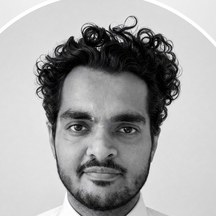
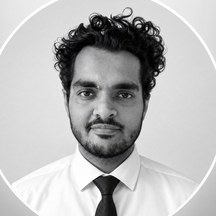
Widen the author photo crop and make it expandable
Crop widened from 1700px to 2200px so the neck, collar and shoulders
are visible rather than the face filling the whole circle. Still sits
inside the source's drawn ring (reach 1149 against a 1235 radius), so
the CSS circular mask stays clean with no bright crescent at the edge.

The photo now expands on click to the full portrait:
- Lightbox CSS promoted from two posts' inline styles into styles.css,
  so every page has it rather than just the two with screenshots
- Lightbox markup added to the 5 posts that lacked it
- Author photo wired up with role=button, tabindex and an aria-label,
  operable by mouse and keyboard, scroll locked while open, focus moved
  to the close button and returned to the photo on Escape
- pratik-full.jpg at 1100x1100, 102 KB

Verified: 0 contrast failures and 0 horizontal overflow across 20 views,
existing screenshot lightboxes still wired.

diff --git a/blog-variance-1.html b/blog-variance-1.html
@@ -922,7 +922,7 @@
 
       <!-- Author card -->
       <div class="author-card reveal">
-        <img src="pratik.jpg" alt="Pratik Parashar" width="216" height="216" loading="eager" decoding="async" />
+        <img src="pratik.jpg" data-full="pratik-full.jpg" alt="Pratik Parashar" width="216" height="216" loading="eager" decoding="async" />
         <div class="author-info">
           <div class="name">Pratik Parashar</div>
           <p class="bio">Senior Auditor, Financial Services at KPMG Netherlands. Seven years in audit across India and the Netherlands, four of them on private equity and infrastructure funds. Writing a variance commentary tool in public. Open to audit, controls, reporting and controlling roles in the Netherlands. <a href="https://linkedin.com/in/pratikparashar93" target="_blank" rel="noopener noreferrer">LinkedIn &rarr;</a></p>
@@ -946,6 +946,12 @@
 
   <button class="to-top" id="toTop" aria-label="Back to top" title="Back to top">&uarr;</button>
   <p class="sr-status" role="status" aria-live="polite" id="srStatus"></p>
+
+  <div class="lightbox" id="lightbox" role="dialog" aria-modal="true" aria-label="Expanded image">
+    <button class="lightbox-close" id="lightbox-close" aria-label="Close expanded view">Close &middot; Esc</button>
+    <img id="lightbox-img" src="" alt="" />
+    <div class="lightbox-caption" id="lightbox-caption"></div>
+  </div>
 
   <footer class="site-footer">
     <div class="site-footer__inner">
@@ -1152,6 +1158,20 @@
           });
         }
       );
+      // Author photo expands to the full portrait
+      var av = document.querySelector('.author-card img');
+      if (av) {
+        av.setAttribute('tabindex', '0');
+        av.setAttribute('role', 'button');
+        av.setAttribute('aria-label', 'Expand photo of Pratik Parashar');
+        var full = av.getAttribute('data-full') || av.src;
+        function fireAv() { open(full, 'Pratik Parashar', '', av); }
+        av.addEventListener('click', fireAv);
+        av.addEventListener('keydown', function (e) {
+          if (e.key === 'Enter' || e.key === ' ') { e.preventDefault(); fireAv(); }
+        });
+      }
+
 
       x.addEventListener('click', close);
       lightbox.addEventListener('click', function (e) {

diff --git a/blog-variance-2.html b/blog-variance-2.html
@@ -821,7 +821,7 @@
       </div>
 
       <div class="author-card reveal">
-        <img src="pratik.jpg" alt="Pratik Parashar" width="216" height="216" loading="eager" decoding="async" />
+        <img src="pratik.jpg" data-full="pratik-full.jpg" alt="Pratik Parashar" width="216" height="216" loading="eager" decoding="async" />
         <div class="author-info">
           <div class="name">Pratik Parashar</div>
           <p class="bio">Senior Auditor, Financial Services at KPMG Netherlands. Seven years in audit across India and the Netherlands, four of them on private equity and infrastructure funds. Writing a variance commentary tool in public. Open to audit, controls, reporting and controlling roles in the Netherlands. <a href="https://linkedin.com/in/pratikparashar93" target="_blank" rel="noopener noreferrer">LinkedIn &rarr;</a></p>
@@ -844,6 +844,12 @@
 
   <button class="to-top" id="toTop" aria-label="Back to top" title="Back to top">&uarr;</button>
   <p class="sr-status" role="status" aria-live="polite" id="srStatus"></p>
+
+  <div class="lightbox" id="lightbox" role="dialog" aria-modal="true" aria-label="Expanded image">
+    <button class="lightbox-close" id="lightbox-close" aria-label="Close expanded view">Close &middot; Esc</button>
+    <img id="lightbox-img" src="" alt="" />
+    <div class="lightbox-caption" id="lightbox-caption"></div>
+  </div>
 
   <footer class="site-footer">
     <div class="site-footer__inner">
@@ -1050,6 +1056,20 @@
           });
         }
       );
+      // Author photo expands to the full portrait
+      var av = document.querySelector('.author-card img');
+      if (av) {
+        av.setAttribute('tabindex', '0');
+        av.setAttribute('role', 'button');
+        av.setAttribute('aria-label', 'Expand photo of Pratik Parashar');
+        var full = av.getAttribute('data-full') || av.src;
+        function fireAv() { open(full, 'Pratik Parashar', '', av); }
+        av.addEventListener('click', fireAv);
+        av.addEventListener('keydown', function (e) {
+          if (e.key === 'Enter' || e.key === ' ') { e.preventDefault(); fireAv(); }
+        });
+      }
+
 
       x.addEventListener('click', close);
       lightbox.addEventListener('click', function (e) {

diff --git a/blog-controller.html b/blog-controller.html
@@ -714,7 +714,7 @@
 
       <!-- Author card -->
       <div class="author-card reveal">
-        <img src="pratik.jpg" alt="Pratik Parashar" width="216" height="216" loading="lazy" decoding="async" />
+        <img src="pratik.jpg" data-full="pratik-full.jpg" alt="Pratik Parashar" width="216" height="216" loading="lazy" decoding="async" />
         <div class="author-info">
           <div class="name">Pratik Parashar</div>
           <p class="bio">Senior Auditor, Financial Services at KPMG Netherlands. Seven years in audit across India and the Netherlands, four of them on private equity and infrastructure funds. Open to audit, controls, reporting and controlling roles in the Netherlands. <a href="https://linkedin.com/in/pratikparashar93" target="_blank" rel="noopener noreferrer">LinkedIn &rarr;</a></p>
@@ -738,6 +738,12 @@
 
   <button class="to-top" id="toTop" aria-label="Back to top" title="Back to top">&uarr;</button>
   <p class="sr-status" role="status" aria-live="polite" id="srStatus"></p>
+
+  <div class="lightbox" id="lightbox" role="dialog" aria-modal="true" aria-label="Expanded image">
+    <button class="lightbox-close" id="lightbox-close" aria-label="Close expanded view">Close &middot; Esc</button>
+    <img id="lightbox-img" src="" alt="" />
+    <div class="lightbox-caption" id="lightbox-caption"></div>
+  </div>
 
   <footer class="site-footer">
     <div class="site-footer__inner">
@@ -944,6 +950,20 @@
           });
         }
       );
+      // Author photo expands to the full portrait
+      var av = document.querySelector('.author-card img');
+      if (av) {
+        av.setAttribute('tabindex', '0');
+        av.setAttribute('role', 'button');
+        av.setAttribute('aria-label', 'Expand photo of Pratik Parashar');
+        var full = av.getAttribute('data-full') || av.src;
+        function fireAv() { open(full, 'Pratik Parashar', '', av); }
+        av.addEventListener('click', fireAv);
+        av.addEventListener('keydown', function (e) {
+          if (e.key === 'Enter' || e.key === ' ') { e.preventDefault(); fireAv(); }
+        });
+      }
+
 
       x.addEventListener('click', close);
       lightbox.addEventListener('click', function (e) {

diff --git a/styles.css b/styles.css
@@ -570,6 +570,45 @@ nav.post-nav a.pn-index .pn-title { color: var(--ink-2); font-style: italic; }
 
 /* was 10px at 2.96:1. The colour was fine; an inherited opacity was diluting it. */
 .expand-hint { color: var(--ink-3) !important; font-size: 0.8125rem !important; opacity: 1 !important; }
+/* --------------------------------------------------------------------------
+   Lightbox. Lived inline on two posts only; promoted here so every page
+   can expand an image (screenshots, and now the author photo).
+   -------------------------------------------------------------------------- */
+.lightbox {
+  position: fixed; inset: 0; z-index: 9998;
+  background: rgba(20, 17, 15, 0.93);
+  backdrop-filter: blur(3px); -webkit-backdrop-filter: blur(3px);
+  display: none; align-items: center; justify-content: center;
+  padding: var(--space-40); cursor: zoom-out;
+}
+.lightbox.open { display: flex; }
+.lightbox img {
+  max-width: min(100%, 720px); max-height: 100%;
+  object-fit: contain; cursor: zoom-out;
+  box-shadow: 0 8px 60px rgba(0, 0, 0, 0.45);
+}
+.lightbox-close {
+  position: absolute; top: var(--space-24); right: var(--space-32);
+  font-family: var(--ff-sans); font-size: var(--t--1); font-weight: 600;
+  letter-spacing: 0.1em; text-transform: uppercase;
+  color: var(--on-dark-1); background: none;
+  border: 1px solid rgba(247, 243, 236, 0.35);
+  padding: var(--space-8) var(--space-16); cursor: pointer;
+  transition: border-color var(--dur-base) var(--ease-out),
+              color var(--dur-base) var(--ease-out);
+}
+.lightbox-close:hover { border-color: var(--accent-lift); color: var(--accent-lift); }
+.lightbox-caption {
+  position: absolute; bottom: var(--space-24); left: 50%;
+  transform: translateX(-50%);
+  font-size: var(--t--1); color: var(--on-dark-2);
+  max-width: 60ch; text-align: center;
+}
+
+/* Author photo is expandable */
+.author-card img { cursor: zoom-in; }
+.author-card img:focus-visible { outline: 2px solid var(--accent-lift); outline-offset: 3px; }
+
 /* Wide data tables scroll inside their own container instead of breaking
    the page. The commentary demo table needs ~394px and was pushing the
    document 55px past a 360px viewport. */

diff --git a/blog-india-nl.html b/blog-india-nl.html
@@ -413,7 +413,7 @@
       </div>
 
       <div class="author-card reveal">
-        <img src="pratik.jpg" alt="Pratik Parashar" width="216" height="216" loading="lazy" decoding="async" />
+        <img src="pratik.jpg" data-full="pratik-full.jpg" alt="Pratik Parashar" width="216" height="216" loading="lazy" decoding="async" />
         <div class="author-info">
           <div class="name">Pratik Parashar</div>
           <p class="bio">Senior Auditor, Financial Services at KPMG Netherlands. Seven years in audit across India and the Netherlands, four of them on private equity and infrastructure funds. Open to audit, controls, reporting and controlling roles in the Netherlands. <a href="https://linkedin.com/in/pratikparashar93" target="_blank" rel="noopener noreferrer">LinkedIn &rarr;</a></p>
@@ -436,6 +436,12 @@
 
   <button class="to-top" id="toTop" aria-label="Back to top" title="Back to top">&uarr;</button>
   <p class="sr-status" role="status" aria-live="polite" id="srStatus"></p>
+
+  <div class="lightbox" id="lightbox" role="dialog" aria-modal="true" aria-label="Expanded image">
+    <button class="lightbox-close" id="lightbox-close" aria-label="Close expanded view">Close &middot; Esc</button>
+    <img id="lightbox-img" src="" alt="" />
+    <div class="lightbox-caption" id="lightbox-caption"></div>
+  </div>
 
   <footer class="site-footer">
     <div class="site-footer__inner">
@@ -642,6 +648,20 @@
           });
         }
       );
+      // Author photo expands to the full portrait
+      var av = document.querySelector('.author-card img');
+      if (av) {
+        av.setAttribute('tabindex', '0');
+        av.setAttribute('role', 'button');
+        av.setAttribute('aria-label', 'Expand photo of Pratik Parashar');
+        var full = av.getAttribute('data-full') || av.src;
+        function fireAv() { open(full, 'Pratik Parashar', '', av); }
+        av.addEventListener('click', fireAv);
+        av.addEventListener('keydown', function (e) {
+          if (e.key === 'Enter' || e.key === ' ') { e.preventDefault(); fireAv(); }
+        });
+      }
+
 
       x.addEventListener('click', close);
       lightbox.addEventListener('click', function (e) {

diff --git a/blog-ai-agents.html b/blog-ai-agents.html
@@ -631,7 +631,7 @@
       </div>
 
       <div class="author-card">
-        <img src="pratik.jpg" alt="Pratik Parashar" width="216" height="216" loading="lazy" decoding="async" />
+        <img src="pratik.jpg" data-full="pratik-full.jpg" alt="Pratik Parashar" width="216" height="216" loading="lazy" decoding="async" />
         <div class="author-info">
           <div class="name">Pratik Parashar</div>
           <p class="bio">Senior Auditor, Financial Services at KPMG Netherlands. Seven years in audit across India and the Netherlands, four of them on private equity and infrastructure funds. Open to audit, controls, reporting and controlling roles in the Netherlands. <a href="https://linkedin.com/in/pratikparashar93" target="_blank" rel="noopener noreferrer">LinkedIn &rarr;</a></p>
@@ -654,6 +654,12 @@
 
   <button class="to-top" id="toTop" aria-label="Back to top" title="Back to top">&uarr;</button>
   <p class="sr-status" role="status" aria-live="polite" id="srStatus"></p>
+
+  <div class="lightbox" id="lightbox" role="dialog" aria-modal="true" aria-label="Expanded image">
+    <button class="lightbox-close" id="lightbox-close" aria-label="Close expanded view">Close &middot; Esc</button>
+    <img id="lightbox-img" src="" alt="" />
+    <div class="lightbox-caption" id="lightbox-caption"></div>
+  </div>
 
   <footer class="site-footer">
     <div class="site-footer__inner">
@@ -860,6 +866,20 @@
           });
         }
       );
+      // Author photo expands to the full portrait
+      var av = document.querySelector('.author-card img');
+      if (av) {
+        av.setAttribute('tabindex', '0');
+        av.setAttribute('role', 'button');
+        av.setAttribute('aria-label', 'Expand photo of Pratik Parashar');
+        var full = av.getAttribute('data-full') || av.src;
+        function fireAv() { open(full, 'Pratik Parashar', '', av); }
+        av.addEventListener('click', fireAv);
+        av.addEventListener('keydown', function (e) {
+          if (e.key === 'Enter' || e.key === ' ') { e.preventDefault(); fireAv(); }
+        });
+      }
+
 
       x.addEventListener('click', close);
       lightbox.addEventListener('click', function (e) {

diff --git a/blog-variance-3.html b/blog-variance-3.html
@@ -995,7 +995,7 @@ Format: flowing paragraphs, not bullet points."""</span></pre>
       </div>
 
       <div class="author-card reveal">
-        <img src="pratik.jpg" alt="Pratik Parashar" width="216" height="216" loading="lazy" decoding="async" />
+        <img src="pratik.jpg" data-full="pratik-full.jpg" alt="Pratik Parashar" width="216" height="216" loading="lazy" decoding="async" />
         <div class="author-info">
           <div class="name">Pratik Parashar</div>
           <p class="bio">Senior Auditor, Financial Services at KPMG Netherlands. Seven years in audit across India and the Netherlands, four of them on private equity and infrastructure funds. Writing a variance commentary tool in public. Open to audit, controls, reporting and controlling roles in the Netherlands. <a href="https://linkedin.com/in/pratikparashar93" target="_blank" rel="noopener noreferrer">LinkedIn &rarr;</a></p>
@@ -1231,6 +1231,20 @@ Format: flowing paragraphs, not bullet points."""</span></pre>
           });
         }
       );
+      // Author photo expands to the full portrait
+      var av = document.querySelector('.author-card img');
+      if (av) {
+        av.setAttribute('tabindex', '0');
+        av.setAttribute('role', 'button');
+        av.setAttribute('aria-label', 'Expand photo of Pratik Parashar');
+        var full = av.getAttribute('data-full') || av.src;
+        function fireAv() { open(full, 'Pratik Parashar', '', av); }
+        av.addEventListener('click', fireAv);
+        av.addEventListener('keydown', function (e) {
+          if (e.key === 'Enter' || e.key === ' ') { e.preventDefault(); fireAv(); }
+        });
+      }
+
 
       x.addEventListener('click', close);
       lightbox.addEventListener('click', function (e) {

diff --git a/blog-variance-4.html b/blog-variance-4.html
@@ -1060,7 +1060,7 @@ Every claim traceable to the data above.</span></pre>
       </div>
 
       <div class="author-card reveal">
-        <img src="pratik.jpg" alt="Pratik Parashar" width="216" height="216" loading="lazy" decoding="async" />
+        <img src="pratik.jpg" data-full="pratik-full.jpg" alt="Pratik Parashar" width="216" height="216" loading="lazy" decoding="async" />
         <div class="author-info">
           <div class="name">Pratik Parashar</div>
           <p class="bio">Senior Auditor, Financial Services at KPMG Netherlands. Seven years in audit across India and the Netherlands, four of them on private equity and infrastructure funds. Writing a variance commentary tool in public. Open to audit, controls, reporting and controlling roles in the Netherlands. <a href="https://linkedin.com/in/pratikparashar93" target="_blank" rel="noopener noreferrer">LinkedIn &rarr;</a></p>
@@ -1296,6 +1296,20 @@ Every claim traceable to the data above.</span></pre>
           });
         }
       );
+      // Author photo expands to the full portrait
+      var av = document.querySelector('.author-card img');
+      if (av) {
+        av.setAttribute('tabindex', '0');
+        av.setAttribute('role', 'button');
+        av.setAttribute('aria-label', 'Expand photo of Pratik Parashar');
+        var full = av.getAttribute('data-full') || av.src;
+        function fireAv() { open(full, 'Pratik Parashar', '', av); }
+        av.addEventListener('click', fireAv);
+        av.addEventListener('keydown', function (e) {
+          if (e.key === 'Enter' || e.key === ' ') { e.preventDefault(); fireAv(); }
+        });
+      }
+
 
       x.addEventListener('click', close);
       lightbox.addEventListener('click', function (e) {
